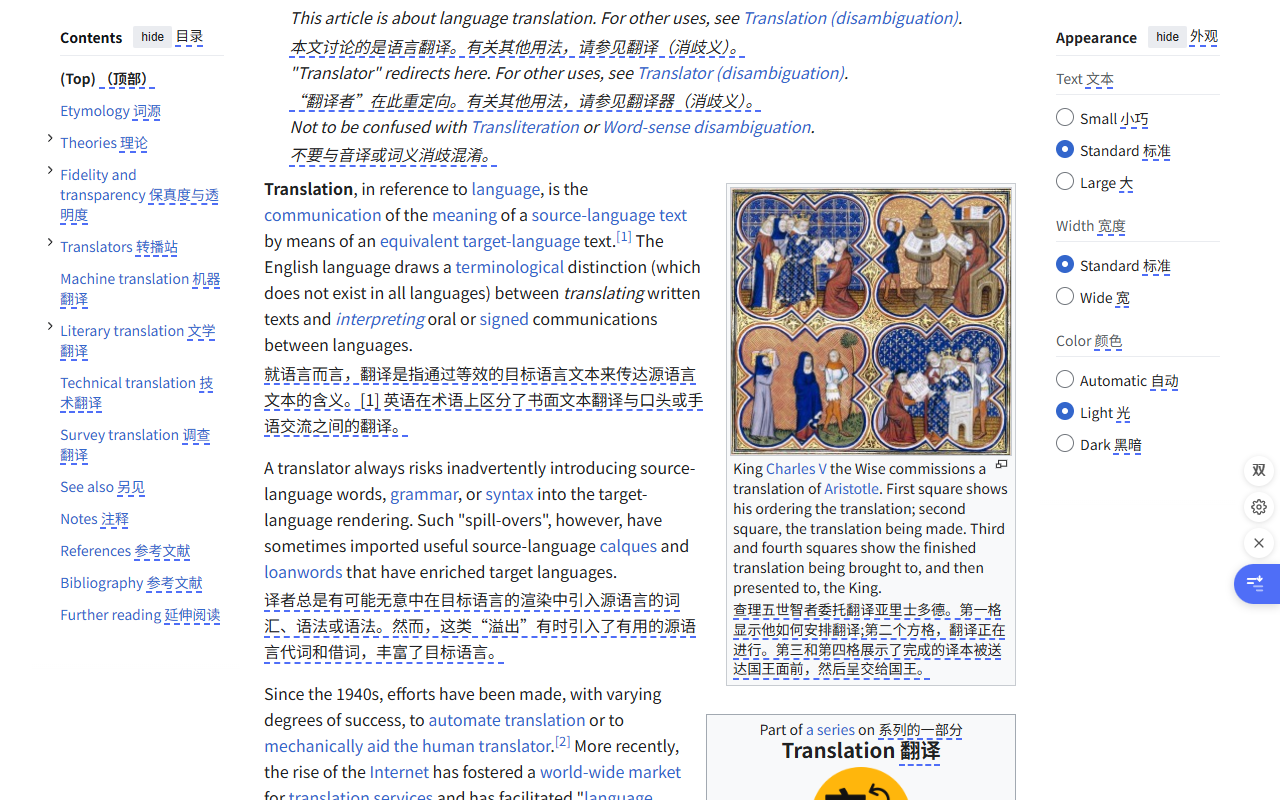
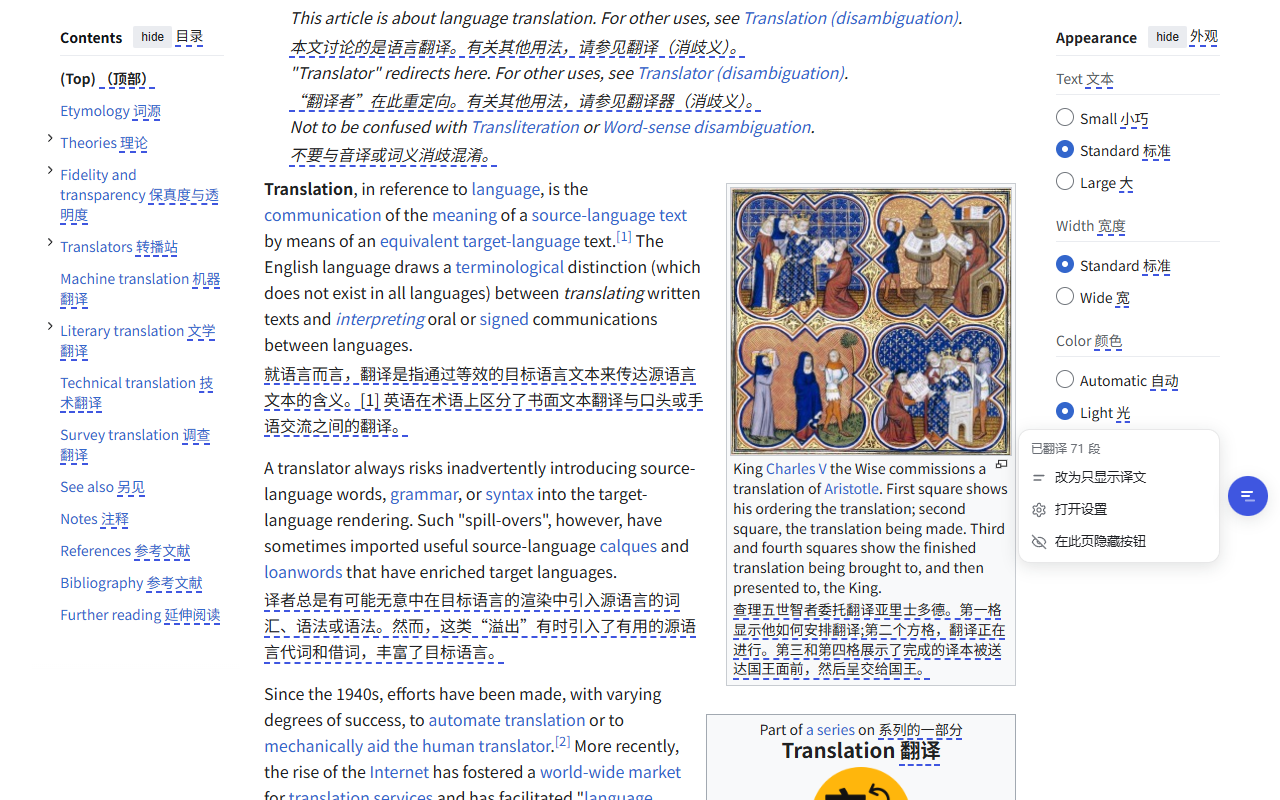
Release 0.2.0: new screenshots for the redesigned UI

Changed region(s): [[0.8125, 0.5312, 0.9062, 0.6875], [0.9375, 0.5625, 1.0, 0.6562], [0.9375, 0.6875, 1.0, 0.7812]]

diff --git a/README.md b/README.md
@@ -16,9 +16,11 @@
 
 ![双语对照](store/screenshot-1-bilingual.png)
 
-| 仅显示译文 | 悬停翻译 + 划词翻译 |
+| 只看译文 | 工具栏弹窗：进度、样式预览、本站规则 |
 | --- | --- |
-| ![仅译文](store/screenshot-2-translation-only.png) | ![划词翻译](store/screenshot-3-selection.png) |
+| ![只看译文](store/screenshot-2-translation-only.png) | ![工具栏弹窗](store/screenshot-3-popup.png) |
+| **悬停翻译 + 划词翻译** | **设置：服务列表、预设、一键测试** |
+| ![划词翻译](store/screenshot-4-selection.png) | ![设置页](store/screenshot-5-options.png) |
 
 ## 功能
 
@@ -66,9 +68,7 @@
 | 翻译单个段落 | 鼠标停在段落上，按一下 `Ctrl` |
 | 输入框翻译 | 快速连按三次空格 |
 
-**接入 AI**：打开设置 → 翻译服务 → OpenAI 兼容接口，选一个服务商预设，填入 API Key，然后点 **测试当前服务**。
-
-<img src="store/screenshot-4-options.png" width="640" alt="设置页">
+**接入 AI**：打开设置 → 翻译服务 → OpenAI 兼容接口，点一个服务商（自动填好接口地址和模型），填入 API Key，再点 **测试**。没配置好时，弹窗顶部会直接提示。
 
 - 使用本地 Ollama 时 API Key 留空；如果测试返回 403，设置环境变量 `OLLAMA_ORIGINS=*` 后重启 Ollama。
 - 使用推理模型（o 系列、GPT-5、DeepSeek-R1）时 Temperature 留空。这类模型比较慢，网页翻译更推荐非推理的小模型。
